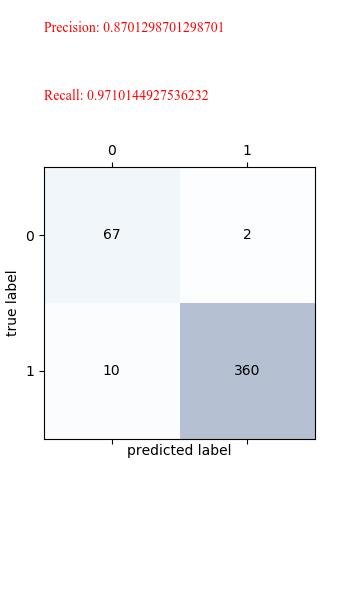
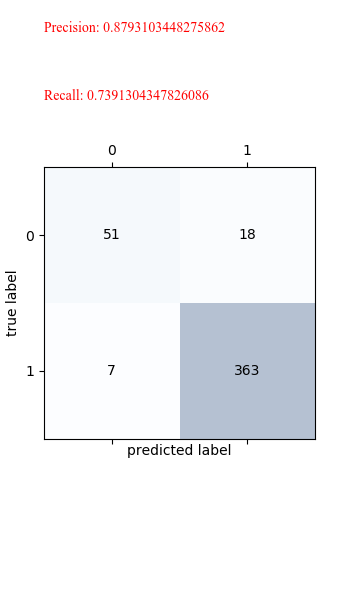
local outlier factor

diff --git a/code/classifiers/outlier_detection.py b/code/classifiers/outlier_detection.py
@@ -4,6 +4,7 @@ import numpy as np
 from sklearn.ensemble import IsolationForest
 from sklearn.metrics import confusion_matrix
 from sklearn.covariance import EllipticEnvelope
+from sklearn.neighbors import LocalOutlierFactor
 from novelty_detection import confusion_metric_drawer_novelty
 
 
@@ -54,3 +55,9 @@ clf_EEnvelope.fit(training_set)
 predict_label = clf_EEnvelope.predict(test_set)
 metric_EEnvelope = confusion_matrix(test_label, predict_label)
 confusion_metric_drawer_novelty(metric_EEnvelope, "../output/metric_thigh_EEnvelope.png")
+
+# local outlier factor
+clf_LOF = LocalOutlierFactor(contamination=0.12)
+predict_label = clf_LOF.fit_predict(test_set)
+metric_LOF = confusion_matrix(test_label, predict_label)
+confusion_metric_drawer_novelty(metric_LOF, "../output/metric_thigh_LOF_o.png")
